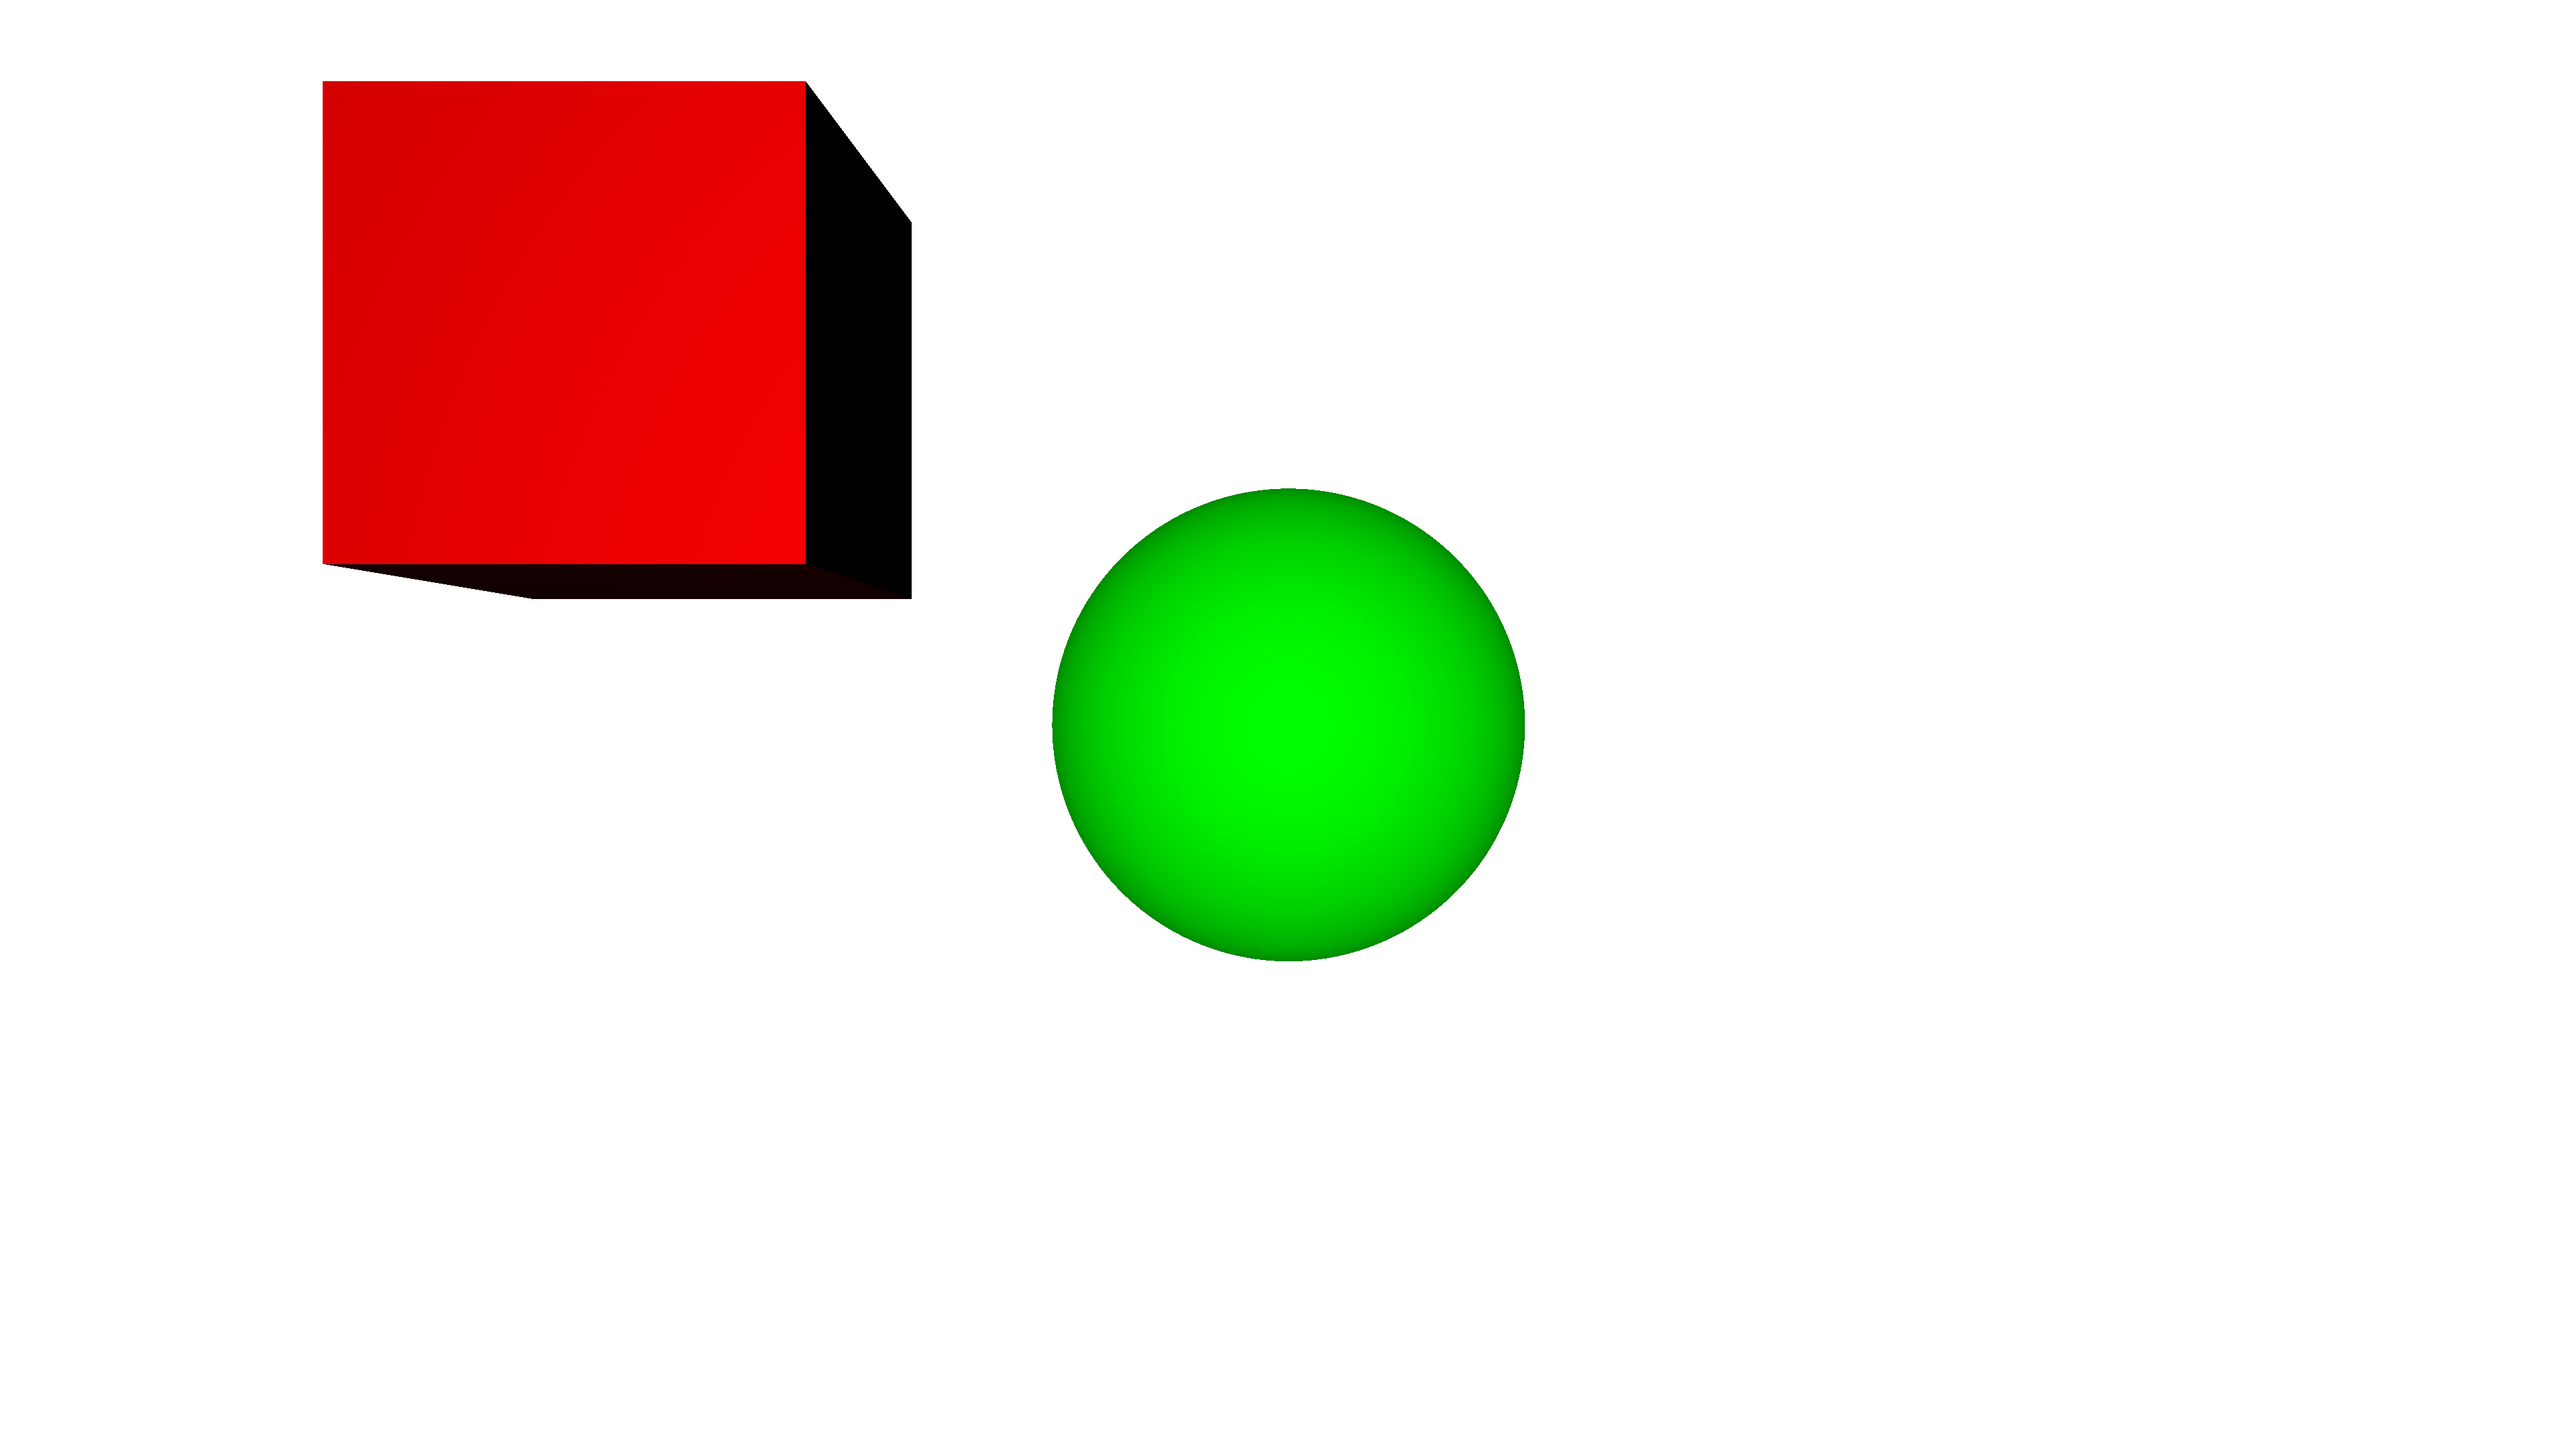
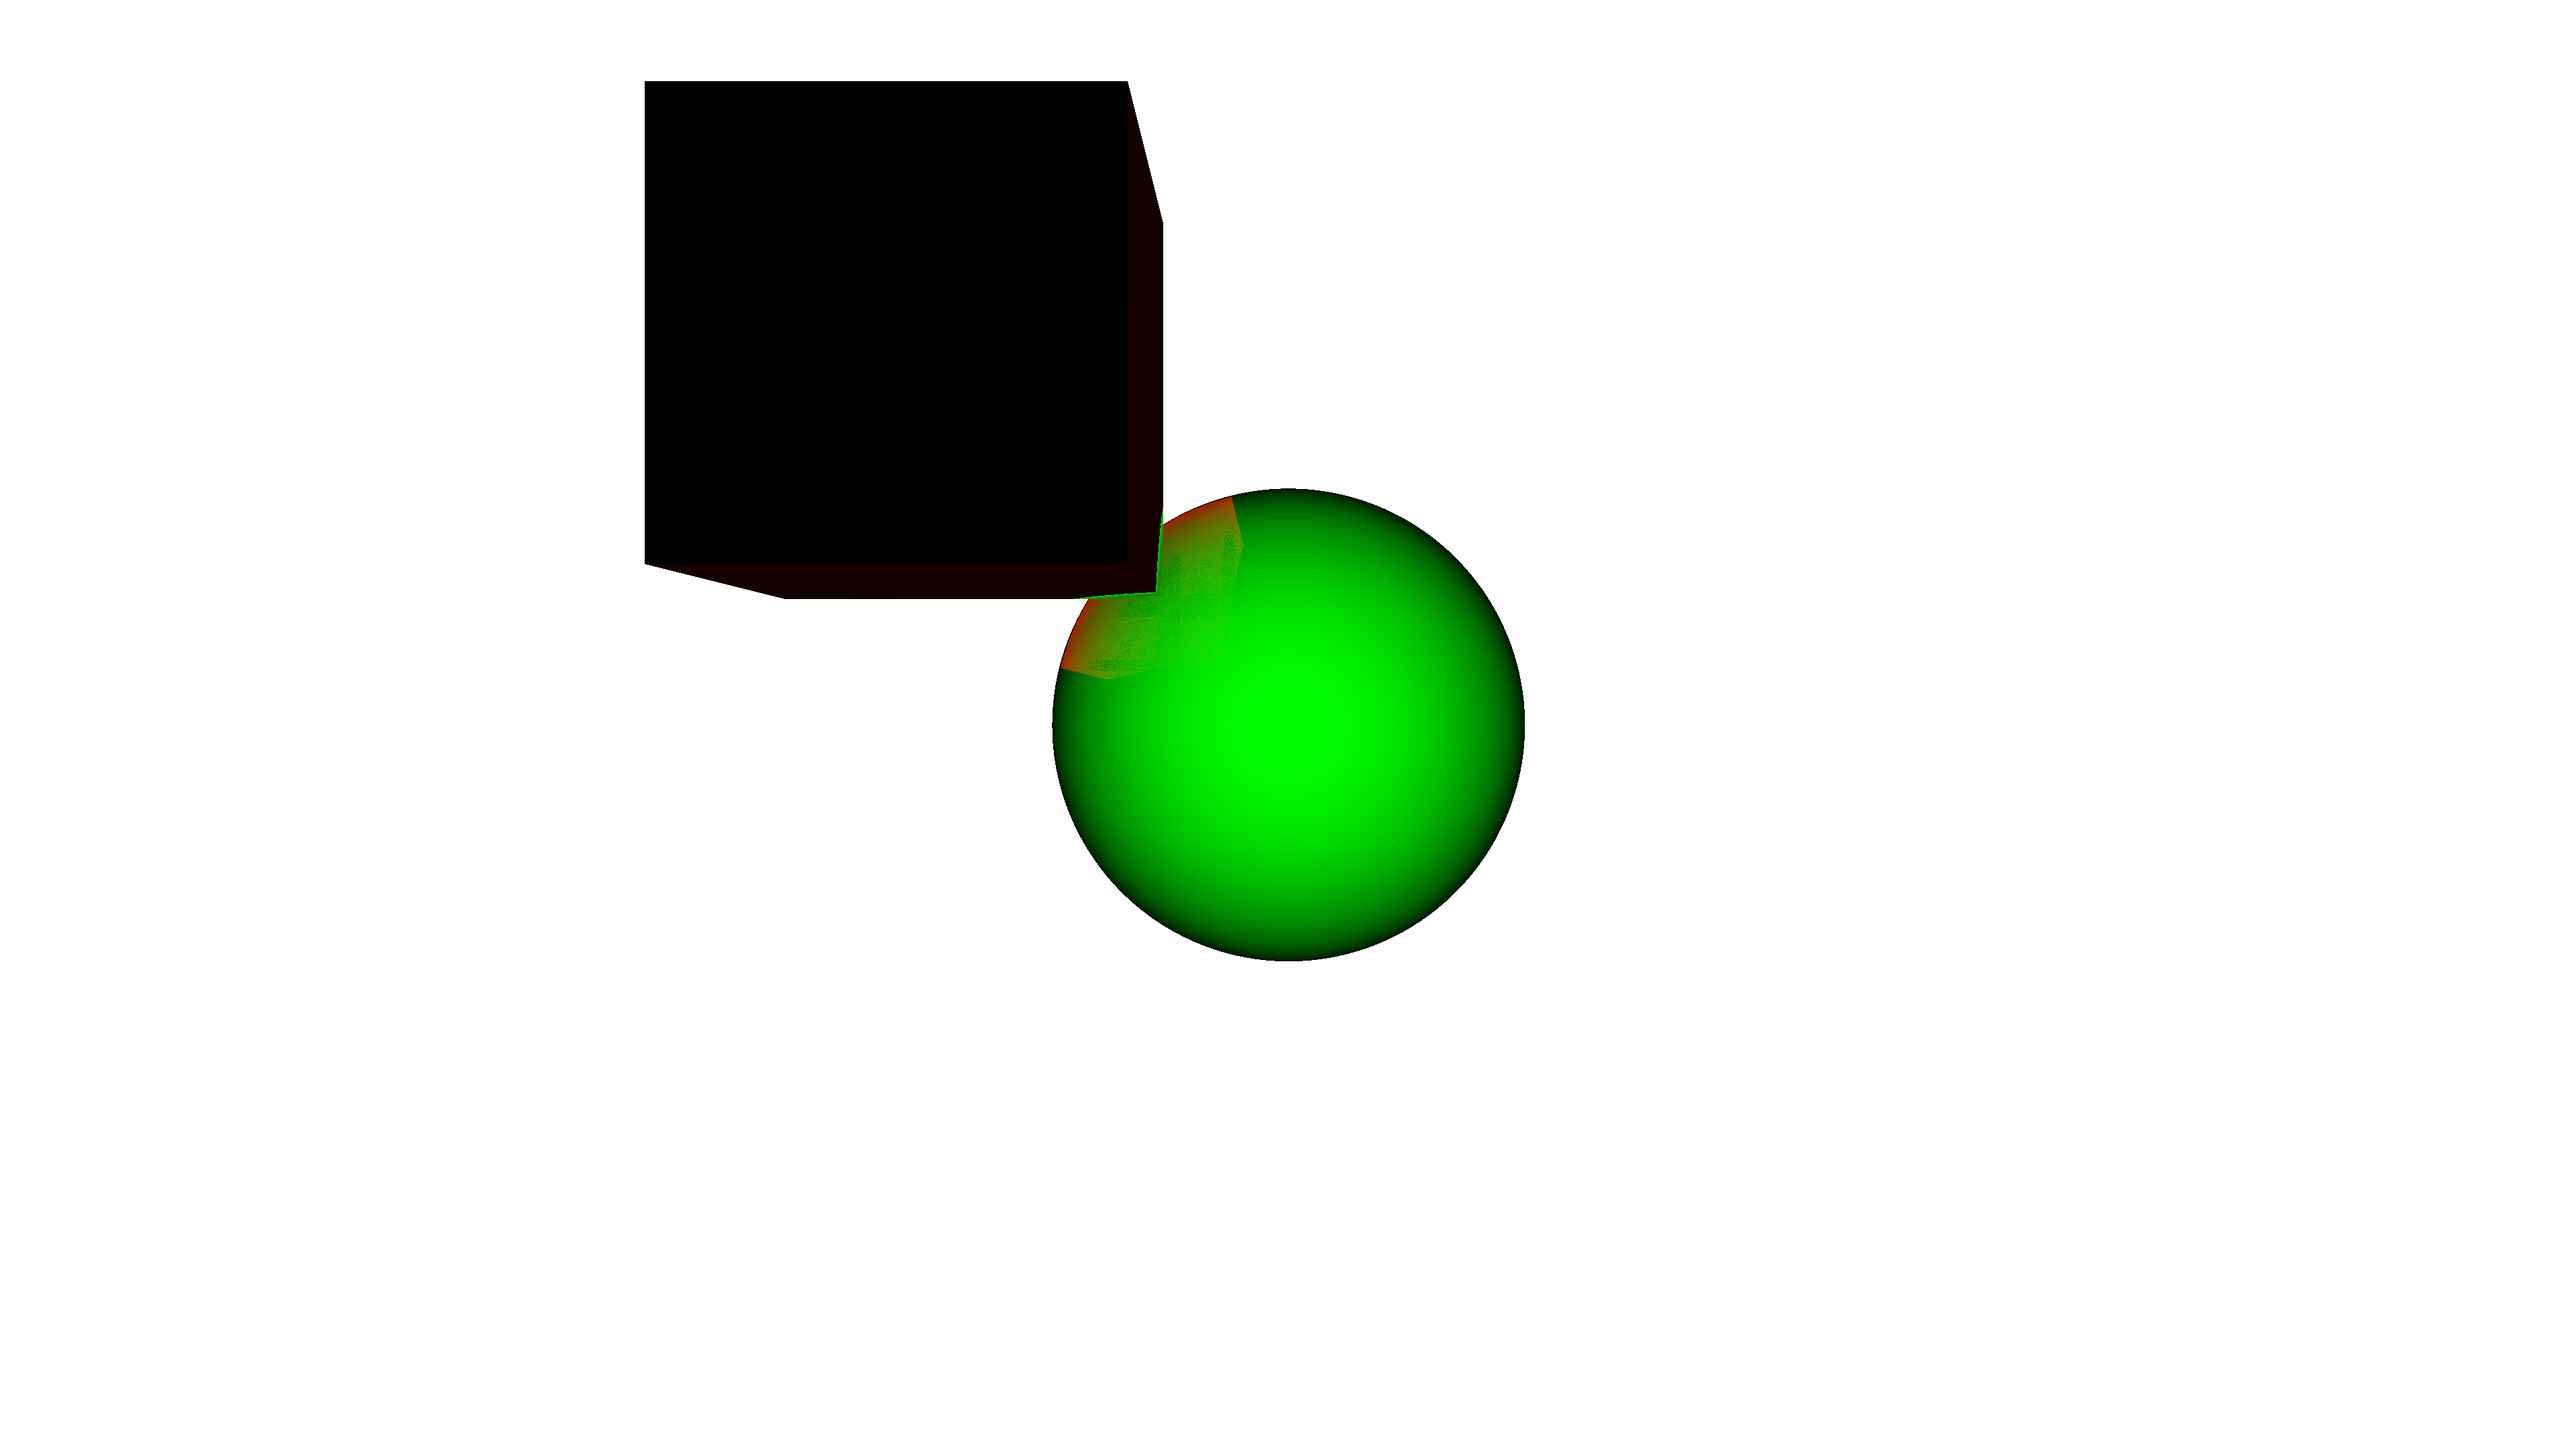
wip ray marching with bounces

Changed region(s): [[0.125, 0.031, 0.5938, 0.6824]]

diff --git a/src/scene.rs b/src/scene.rs
@@ -55,16 +55,17 @@ impl Scene {
                     if light_remaining.abs() < 0.0001 {
                         break;
                     }
+                    let normal = -ray.vec_closest(&self).unwrap().normalize();
                     ray = Ray {
                         pos: ray.pos,
-                        dir: ray.vec_closest(&self).unwrap(),
+                        dir: normal,
                     };
 
                     for _ in 0..500 {
                         ray.step(self);
                     }
                     let (c, p) = ray.color(self);
-                    color += light_remaining * c * p;
+                    color += light_remaining * c * (1. - p);
                     light_remaining -= light_remaining * p;
                 }
 

diff --git a/src/object.rs b/src/object.rs
@@ -75,11 +75,16 @@ impl Cuboid {
     }
 
     pub fn dist(&self, p: vec3f) -> f32 {
-        self.vec_to(p).norm()
+        p.sub(self.m).abs().sub(self.r).map(|c| c.max(0.)).norm()
     }
 
     pub fn vec_to(&self, p: vec3f) -> vec3f {
-        p.sub(self.m).abs().sub(self.r).map(|c| c.max(0.))
+        let v = p.sub(self.m).abs().sub(self.r).map(|c| c.max(0.));
+        if self.dist(p + 0.001 * v) < self.dist(p) {
+            v
+        } else {
+            -v
+        }
     }
 }
 

diff --git a/src/ray.rs b/src/ray.rs
@@ -24,7 +24,7 @@ impl Ray {
 
     pub fn step(&mut self, scene: &Scene) {
         let closest = scene.closest(self.pos).unwrap();
-        let d = closest.dist(self.pos);
+        let d = closest.dist(self.pos).clamp(0., 1.);
         self.pos += self.dir * d;
     }
 

diff --git a/src/main.rs b/src/main.rs
@@ -32,7 +32,7 @@ fn main() -> Result<()> {
     
     let x1 = 2.;
     let y1 = 0.25;
-    let z1 = -1.5;
+    let z1 = -1.;
     let o = 0.75;
     
     s.add(Sphere::from(3., 0., 0., 0.5));
